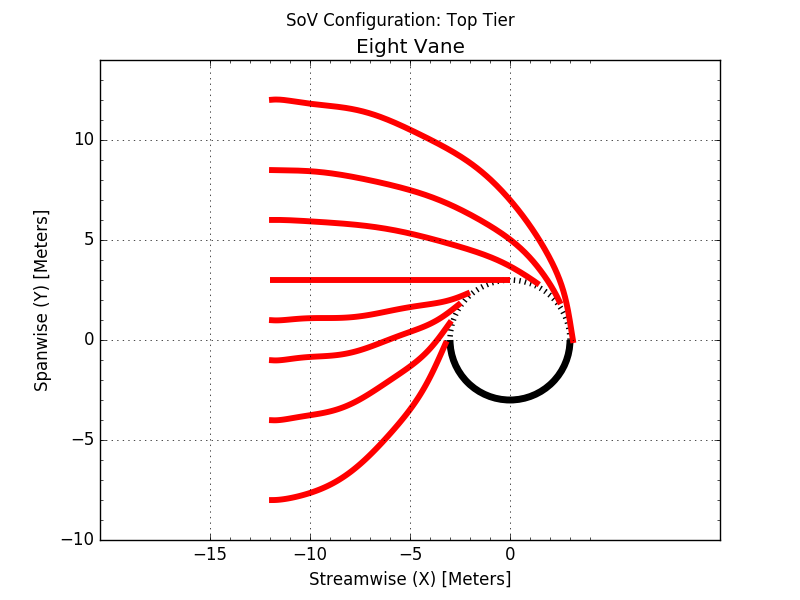
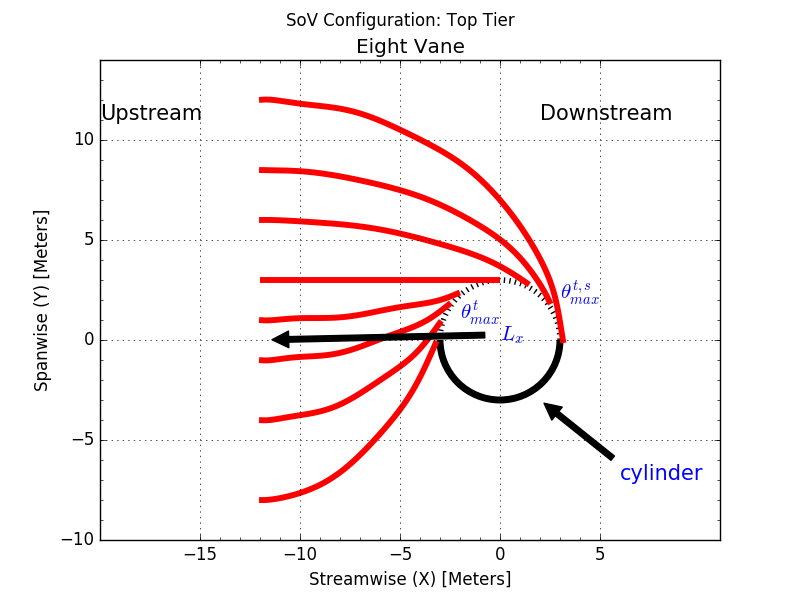
updating image with text

diff --git a/disputatio/routines/vanes/combo.py b/disputatio/routines/vanes/combo.py
@@ -294,7 +294,7 @@ def main():
     plt.title("Eight Vane")
 
     xmin = -15
-    xmax = 5
+    xmax = 6
 
     ymin = -10
     ymax = 14
@@ -321,6 +321,24 @@ def main():
     from matplotlib.patches import Ellipse, Arc
     ellipse = Arc([0.0,0.0],2*Rprime,2*Rprime,0,180,0,color='black', linewidth='5.0')
     ax.add_patch(ellipse)
+
+    # adding text
+    #
+    ax.text(-20, 11, r'Upstream', fontsize=15)
+    ax.text(2, 11, r'Downstream', fontsize=15)
+
+    # angles
+    ax.text(-2, 1, r'$\theta^{t}_{max}$', fontsize=15,color='blue')
+    ax.text(3, 2, r'$\theta^{t,s}_{max}$', fontsize=15,color='blue')
+
+    # outer and inner radius
+    ax.annotate(r'$L_{x}$', xy=(-12,0), xytext=(0, 0),
+                arrowprops=dict(facecolor='black', shrink=0.05),color='blue',fontsize=15)
+    ax.annotate(r'cylinder', xy=(2,-3), xytext=(6,-7),
+                arrowprops=dict(facecolor='black', shrink=0.05),color='blue',fontsize=15)
+
+
+
 
     fig = plt.gcf()
     fig.gca().add_artist(circle)
